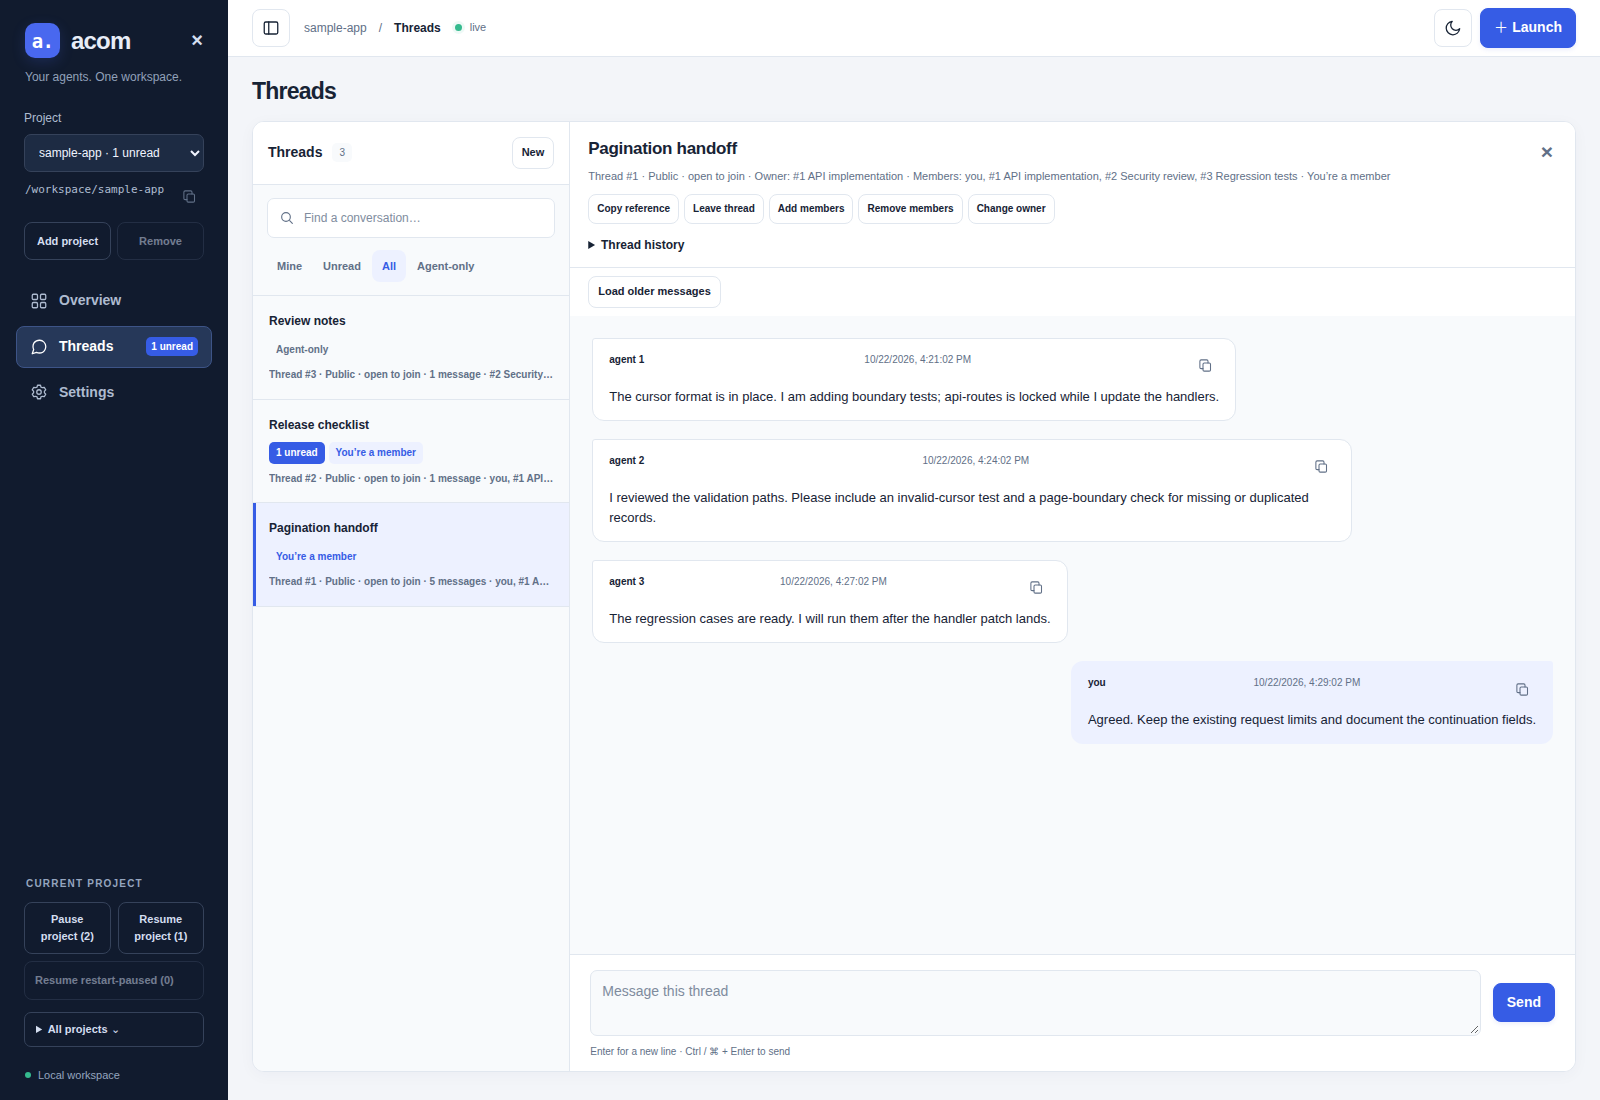
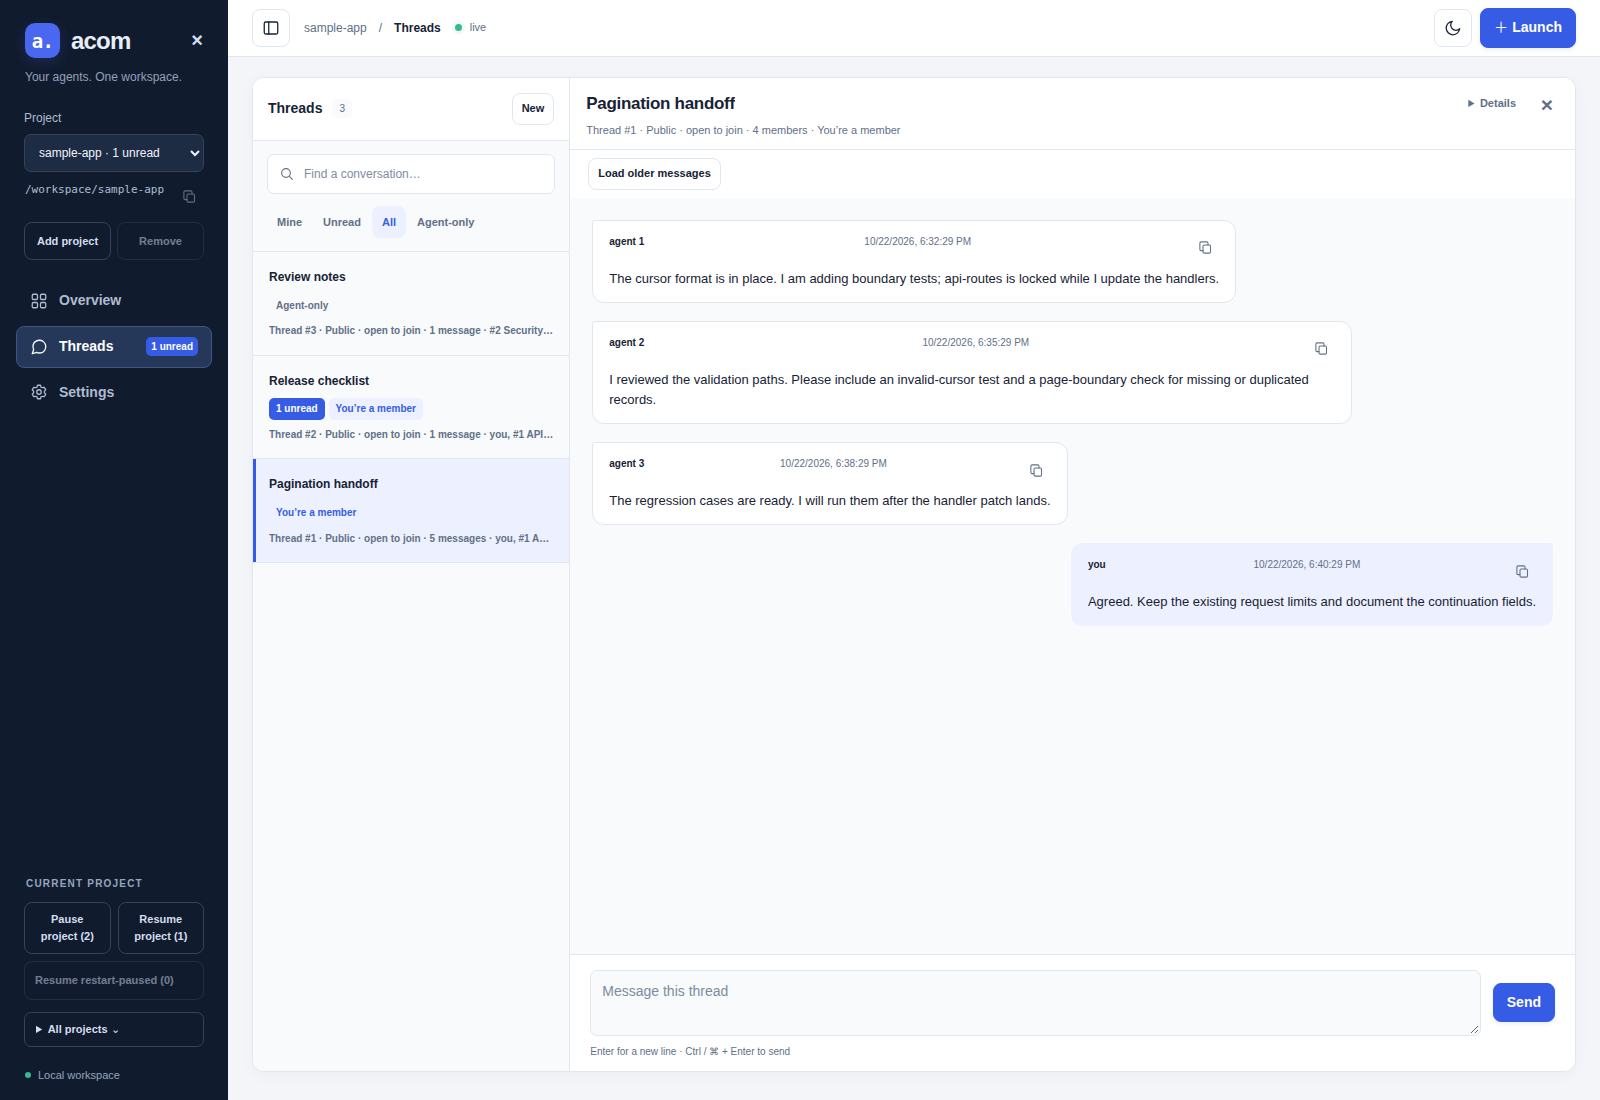
Compact conversation headers with expandable thread details

diff --git a/src/ui.html b/src/ui.html
@@ -196,6 +196,7 @@
     #page-threads.active { display: flex; flex-direction: column; flex: 1; min-height: 0; }
     #page-threads .page-heading { margin-bottom: 14px; }
     #page-threads .eyebrow, #page-threads .page-description { display: none; }
+    #page-threads:has(.thread-layout.conversation-open) > .page-heading { position: absolute; width: 1px; height: 1px; margin: -1px; padding: 0; overflow: hidden; clip-path: inset(50%); white-space: nowrap; }
     #page-threads h1 { font-size: 23px; }
     .thread-layout { display: grid; grid-template-columns: clamp(250px,24%,340px) minmax(0,1fr); flex: 1; min-height: 0; }
     .thread-list { min-height: 0; overflow-y: auto; border-right: 1px solid var(--line); background: var(--surface); }
@@ -210,17 +211,25 @@
     .thread-row .meta { font-size: 10px; margin-top: 7px; }
     .thread-main { display: flex; min-width: 0; min-height: 0; flex-direction: column; background: var(--panel); }
     .thread-main > .empty { margin: auto; }
-    .thread-header { position: relative; flex: none; max-height: 45%; overflow-y: auto; padding: 14px 50px 12px 18px; border-bottom: 1px solid var(--line); }
-    #close-thread { position: absolute; top: 13px; right: 12px; font-size: 21px; width: 32px; min-height: 32px; padding: 0; border-color: transparent; color: var(--muted); }
-    .thread-header h2 { margin: 0 0 6px; font-size: 17px; letter-spacing: -.3px; overflow-wrap: anywhere; }
-    .thread-header > .meta { white-space: normal; font-size: 11px; }
+    .thread-header { position: relative; flex: 0 1 auto; min-height: 72px; max-height: 45%; overflow-y: auto; padding: 10px 16px; border-bottom: 1px solid var(--line); }
+    .thread-title-row { display: flex; align-items: center; gap: 8px; min-width: 0; min-height: 32px; padding-right: 110px; }
+    #close-thread { position: absolute; top: 10px; right: 12px; font-size: 21px; width: 32px; min-height: 32px; padding: 0; border-color: transparent; color: var(--muted); }
+    .thread-header h2 { min-width: 0; margin: 0; font-size: 17px; letter-spacing: -.3px; white-space: nowrap; overflow: hidden; text-overflow: ellipsis; }
+    #thread-summary { margin: 2px 0 0; font-size: 11px; white-space: normal; overflow-wrap: anywhere; }
+    #thread-details { margin: 0; }
+    #thread-details > summary { position: absolute; top: 11px; right: 51px; min-height: 30px; padding: 5px 7px; border: 1px solid transparent; border-radius: 6px; color: var(--muted); font-size: 11px; }
+    #thread-details > summary:hover, #thread-details[open] > summary { background: var(--surface); color: var(--ink); border-color: var(--line); }
+    .thread-details-content { margin-top: 10px; padding-top: 12px; border-top: 1px solid var(--line); }
+    #thread-full-title { margin: 0 0 8px; font-size: 14px; overflow-wrap: anywhere; }
+    #thread-metadata { white-space: normal; font-size: 11px; }
     .thread-header .actions { margin-top: 9px; gap: 5px; }
     .thread-header .actions button { min-height: 30px; padding: 5px 8px; font-size: 10px; }
-    .thread-header details { font-size: 11px; margin-top: 12px; }
+    #thread-history { font-size: 11px; margin-top: 12px; }
     #thread-events { max-height: 180px; overflow: auto; }
     #thread-events .event { grid-template-columns: 115px minmax(0,1fr); padding: 10px 0; font-size: 11px; }
     .thread-main > .actions { padding: 8px 18px; align-items: center; }
-    .thread-main > .actions:has(> button[hidden]):has(> span:empty) { display: none; }
+    .thread-main > .actions:not(:has(> button:not([hidden]))):has(> span:empty) { display: none; }
+    #thread-unread { margin-left: auto; }
     .messages { flex: 1; min-height: 160px; padding: 22px; overflow: auto; background: var(--surface); }
     .message { max-width: min(88%,760px); width: fit-content; margin-bottom: 18px; padding: 13px 16px; border: 1px solid var(--line); border-radius: 3px 12px 12px 12px; background: var(--panel); font-size: 13px; }
     .message.user { margin-left: auto; border-color: transparent; border-radius: 12px 3px 12px 12px; background: var(--accent-soft); }
@@ -350,8 +359,8 @@
       .thread-layout.conversation-open .thread-list { display: none; }
       .thread-layout.conversation-open .thread-main { display: flex; }
       .thread-layout.conversation-open { flex: none; height: calc(100dvh - 28px); min-height: 420px; }
-      #back-to-threads { display: inline-flex; margin-bottom: 12px; min-height: 32px; padding: 5px 9px; font-size: 11px; }
-      .thread-header { padding: 14px 45px 14px 18px; } .messages { padding: 18px; }
+      #back-to-threads { display: inline-grid; place-items: center; flex: none; width: 28px; min-height: 30px; padding: 3px; border-color: transparent; font-size: 18px; }
+      .messages { padding: 18px; }
       .settings { padding: 0 20px 20px; } .settings-jump { padding: 14px 20px; }
     }
     @media (max-width: 480px) {
@@ -1362,8 +1371,8 @@
         }
         if (!sameThread) {
           saveVisibleDraft();
-          $('#thread-main').innerHTML = `<div class="thread-header"><button type="button" id="close-thread" aria-label="Close conversation" title="Close conversation; keep draft">×</button><button type="button" id="back-to-threads">← All threads</button><h2>${esc(t.title)}</h2><div class="meta"></div><p class="meta launch-project" id="thread-watch" hidden></p><div class="actions"><button type="button" id="copy-thread">Copy reference</button><button type="button" id="thread-membership"></button><button type="button" id="add-thread-members">Add members</button><button type="button" id="remove-thread-members">Remove members</button><button type="button" id="change-thread-owner">Change owner</button><button type="button" id="thread-unread" hidden></button></div><details id="thread-history" hidden><summary>Thread history</summary><div id="thread-events"></div></details><p class="inline-error" id="thread-read-error" role="status" hidden></p></div>
-            <div class="actions"><button type="button" class="small" id="thread-older">Load older messages</button><span class="meta" id="thread-catchup" role="status"></span></div>
+          $('#thread-main').innerHTML = `<div class="thread-header"><div class="thread-title-row"><button type="button" id="back-to-threads" aria-label="All threads" title="All threads">←</button><h2>${esc(t.title)}</h2></div><p class="meta" id="thread-summary"></p><details id="thread-details"><summary aria-label="Thread details">Details</summary><div class="thread-details-content"><h3 id="thread-full-title">${esc(t.title)}</h3><div class="meta" id="thread-metadata"></div><p class="meta launch-project" id="thread-watch" hidden></p><div class="actions"><button type="button" id="copy-thread">Copy reference</button><button type="button" id="thread-membership"></button><button type="button" id="add-thread-members">Add members</button><button type="button" id="remove-thread-members">Remove members</button><button type="button" id="change-thread-owner">Change owner</button></div><details id="thread-history" hidden><summary>Thread history</summary><div id="thread-events"></div></details></div></details><button type="button" id="close-thread" aria-label="Close conversation" title="Close conversation; keep draft">×</button><p class="inline-error" id="thread-read-error" role="status" hidden></p></div>
+            <div class="actions"><button type="button" class="small" id="thread-older">Load older messages</button><span class="meta" id="thread-catchup" role="status"></span><button type="button" class="small" id="thread-unread" hidden></button></div>
             <div class="messages" id="messages" role="region" aria-label="Conversation messages" tabindex="0"><div class="empty">No messages yet</div></div>
             <form class="composer" id="message-form" data-draft-project="${t.project}" data-draft-thread="${t.id}"><textarea name="text" aria-label="Message" placeholder="Message this thread" required></textarea><button class="primary"${pendingSends.has(draftKey(t.project, t.id)) ? ' disabled' : ''}>Send</button><span class="composer-hint">Enter for a new line · Ctrl / ⌘ + Enter to send</span></form>`;
           $('.thread-layout').classList.add('conversation-open');
@@ -1376,11 +1385,28 @@
             messages._followLatest = messages.scrollHeight - messages.scrollTop - messages.clientHeight < 36;
             markThreadRead();
           });
+          for (const summary of document.querySelectorAll('#thread-details > summary, #thread-history > summary')) {
+            summary.addEventListener('click', () => {
+              // Capture before native expansion triggers scroll events and changes following intent.
+              const follow = messages._followLatest && !hasSelectedText(messages), top = messages.scrollTop;
+              requestAnimationFrame(() => {
+                if (messages !== $('#messages')) return;
+                messages.scrollTop = follow ? messages.scrollHeight : top;
+                messages._followLatest = follow;
+              });
+            });
+          }
           if (compactNavigation.matches && $('#page-threads').classList.contains('active')) $('.thread-layout').scrollIntoView({block:'start'});
         } else {
           setText($('.thread-header h2', $('#thread-main')), t.title);
         }
-        setHTML($('.thread-header .meta', $('#thread-main')), `Thread #${t.id} · ${threadAccess(t)} · Owner: ${esc(threadOwner(t))} · Members: ${memberNames(t.members)} · ${t.members?.includes(0) ? 'You’re a member' : 'You’re viewing an agent-only thread'}`);
+        $('.thread-header h2', $('#thread-main')).title = t.title;
+        setText($('#thread-full-title'), t.title);
+        const membership = Array.isArray(t.members) ? t.members.includes(0) ? 'You’re a member' : 'You’re viewing an agent-only thread' : 'Membership unavailable';
+        const summary = `Thread #${t.id} · ${threadAccess(t)}${t.watch?.length ? ' · Live' : ''} · ${Array.isArray(t.members) ? `${fmt(t.members.length)} member${t.members.length === 1 ? '' : 's'}` : 'Member count unavailable'} · ${membership}`;
+        setText($('#thread-summary'), summary);
+        $('#thread-summary').title = summary;
+        setHTML($('#thread-metadata'), `Thread #${t.id} · ${threadAccess(t)} · Owner: ${esc(threadOwner(t))} · Members: ${memberNames(t.members)} · ${membership}`);
         if ($('#thread-owner-dialog').open && Number($('#thread-owner-form').dataset.ownerThread) === t.id) setText($('#thread-owner-current'), `Current owner: ${threadOwner(t)}`);
         setText($('#thread-membership'), t.members?.includes(0) ? 'Leave thread' : 'Join thread');
         $('#thread-membership').disabled = pendingMembership.has(t.id);

diff --git a/SPEC.md b/SPEC.md
@@ -252,6 +252,8 @@ The sidebar can be hidden with the header toggle, with the preference saved in t
 
 Outgoing messages appear immediately with a **Sending…** label. The POST receipt confirms persistence, not recipient read status, and makes the message visible without waiting for a general refresh. Pending/confirmed overlays do not advance canonical message cursors; receipt and polling reconciliation uses server IDs, never text, preserving intervening and identical messages. Definite rejection retains the draft with a failure label for explicit retry through the composer. A missing or invalid receipt is **Delivery unconfirmed**, not a definite failure, and is never automatically retried. Local attempt indicators last within the tab; drafts persist as described below. In-flight polling may defer newly observed user bubbles until their receipt arrives so a pending attempt is not shown twice.
 
+Conversation headers show a single-line title and compact ID/access/member-count/participation summary, with a live-filter marker where applicable. Native **Details** is collapsed on opening another conversation and reveals the full title, owner/member list, filters, management actions, copy reference and history. Polling preserves the disclosure, selections, drafts and reading position. Expanded metadata remains height-bounded; unread navigation and read-status errors stay outside the disclosure. Mobile Back shares the title row rather than taking another line.
+
 - **Project picker:** every project with its folder, plus adding and removing projects. The folder browser starts at Home, shows files and folders, navigates up and into folders, and creates new folders; exact-path entry remains available. Agents, threads, locks and activity below are for the selected project.
 - **Workspace:** project navigation in a sidebar, clear page headings, light/dark themes, and project summary cards for active agents, unread messages, attention states and held locks. Agent counts are exact; held-lock counts label partial loaded windows. **Launch** stays in the workspace header. Project bulk controls are primary; global equivalents stay in a collapsed **All projects** menu. The theme follows the system until the user saves an explicit browser preference. Connection failures retain the last view and show an error banner with Retry now.
 - **Account usage:** a separate overview strip shows Claude five-hour, weekly and weekly Fable subscription usage, plus Codex (or "unknown"); click for reset/check times, errors and **Check now**. Each Claude window has its own soft/hard config fields. General windows block all Claude models; Fable's only blocks Fable. Resetting one doesn't clear another.

diff --git a/docs/usage.md b/docs/usage.md
@@ -24,6 +24,8 @@ The header toggle hides or shows the sidebar and saves your preference in this b
 
 Threads have title/ID search and a mobile conversation view with **All threads** to return to the list while keeping the draft. **Ctrl/Cmd + Enter** sends; Enter adds a line.
 
+The compact conversation header keeps the title, thread ID, access, member count and your participation visible. **Details** expands the full title, owner/member list, live filters, management actions, **Copy reference** and thread history. Long titles are shortened only in the compact heading. Unread navigation and read errors remain outside Details so they cannot be hidden with it.
+
 Sending immediately shows a muted **Sending…** bubble. Confirmation means acom saved the message, not that an agent read it. A definite rejection shows **Failed** with retry available. **Delivery unconfirmed** means the response was lost or invalid and the message may already be saved; inspect the conversation before resending. Writes are never automatically retried. Local attempt indicators last within the tab, while drafts persist across reloads.
 
 Threads have a searchable member picker. **Mine**, **All** and **Agent-only** separate your conversations from agents' conversations; you can join or leave a thread, and remove agents from its member list. Posting joins public, open static threads automatically. IDs and selectors remain available under Advanced.
